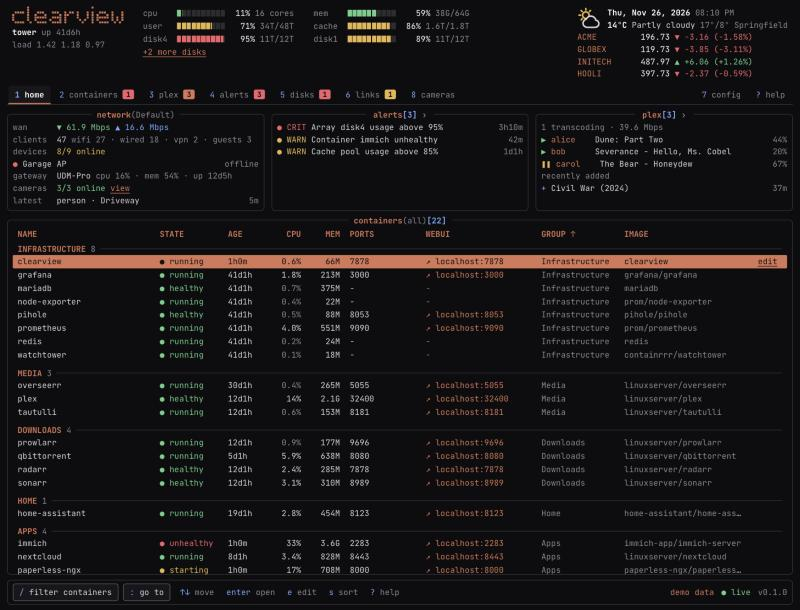
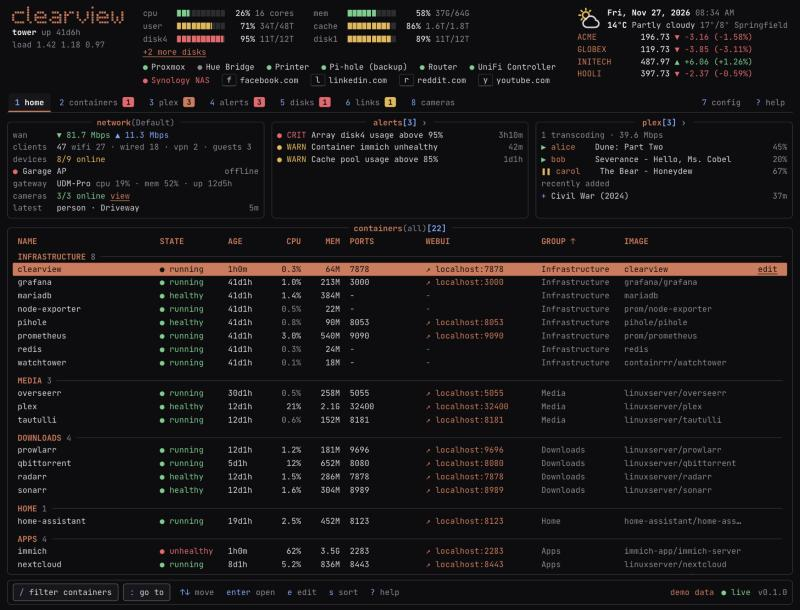
Show your links and shortcuts in the header
List the configured links, with their up or down dot, and the letter
shortcuts under the header meters, each opening in a new tab. The header
shows up to ten of each, then a button to the rest; on phones they are one
row to swipe. Update the README and screenshots.

diff --git a/web/src/components/Header.tsx b/web/src/components/Header.tsx
@@ -1,17 +1,22 @@
-import type { HostStats, Quote, Snapshot, WeatherData } from '@clearview/shared';
+import type { HostStats, LinkInfo, Quote, Snapshot, WeatherData } from '@clearview/shared';
 import type { ViewId } from '../lib/commands';
+import type { ShortcutEntry } from '../lib/configEdit';
 import { fmtAge, fmtBytes } from '../lib/format';
 import { headerDisks } from '../lib/panels';
 import { Bar } from './Bar';
 import { HeaderWidget } from './HeaderWidget';
 import { Logo } from './Logo';
+import { QuickLinks } from './QuickLinks';
 
 interface HeaderProps {
   host: HostStats | null;
   weather: Snapshot<WeatherData> | null;
   quotes: Snapshot<Quote[]> | null;
+  links: LinkInfo[];
+  shortcuts: ShortcutEntry[];
   onNavigate: (view: ViewId) => void;
   onSetUpWidget: () => void;
+  onEditShortcuts: () => void;
 }
 
 /** "name ▮▮▮░░ 42%  detail"; a button when there is somewhere to go from it */
@@ -35,7 +40,7 @@ function Meter({ name, pct, detail, onClick }: { name: string; pct: number | nul
   );
 }
 
-export function Header({ host, weather, quotes, onNavigate, onSetUpWidget }: HeaderProps) {
+export function Header({ host, weather, quotes, links, shortcuts, onNavigate, onSetUpWidget, onEditShortcuts }: HeaderProps) {
   const disks = headerDisks(host?.disks ?? []);
   return (
     <header className="hdr">
@@ -52,17 +57,21 @@ export function Header({ host, weather, quotes, onNavigate, onSetUpWidget }: Hea
         </div>
       </div>
 
-      <div className="meters">
-        <Meter name="cpu" pct={host?.cpuPct ?? null} detail={host && `${host.cpuCores} cores`} />
-        <Meter name="mem" pct={host?.mem.usedPct ?? null} detail={host && `${fmtBytes(host.mem.usedBytes)}/${fmtBytes(host.mem.totalBytes)}`} />
-        {disks.shown.map((d) => (
-          <Meter key={d.mount} name={d.name} pct={d.usedPct} detail={`${fmtBytes(d.usedBytes)}/${fmtBytes(d.totalBytes)}`} onClick={() => onNavigate('disks')} />
-        ))}
-        {disks.hidden > 0 && (
-          <button type="button" className="text-btn meters-more" onClick={() => onNavigate('disks')}>
-            +{disks.hidden} more disk{disks.hidden === 1 ? '' : 's'}
-          </button>
-        )}
+      <div className="hdr-mid">
+        <div className="meters">
+          <Meter name="cpu" pct={host?.cpuPct ?? null} detail={host && `${host.cpuCores} cores`} />
+          <Meter name="mem" pct={host?.mem.usedPct ?? null} detail={host && `${fmtBytes(host.mem.usedBytes)}/${fmtBytes(host.mem.totalBytes)}`} />
+          {disks.shown.map((d) => (
+            <Meter key={d.mount} name={d.name} pct={d.usedPct} detail={`${fmtBytes(d.usedBytes)}/${fmtBytes(d.totalBytes)}`} onClick={() => onNavigate('disks')} />
+          ))}
+          {disks.hidden > 0 && (
+            <button type="button" className="text-btn meters-more" onClick={() => onNavigate('disks')}>
+              +{disks.hidden} more disk{disks.hidden === 1 ? '' : 's'}
+            </button>
+          )}
+        </div>
+
+        <QuickLinks links={links} shortcuts={shortcuts} onNavigate={onNavigate} onEditShortcuts={onEditShortcuts} />
       </div>
 
       <HeaderWidget weather={weather} quotes={quotes} onConfigure={onSetUpWidget} />

diff --git a/web/src/components/QuickLinks.tsx b/web/src/components/QuickLinks.tsx
@@ -1,0 +1,61 @@
+import type { LinkInfo } from '@clearview/shared';
+import type { ViewId } from '../lib/commands';
+import type { ShortcutEntry } from '../lib/configEdit';
+import { siteName } from '../lib/format';
+import { GLYPH } from '../lib/glyphs';
+
+/** how many of each kind the header has room for */
+const MAX = 10;
+
+interface QuickLinksProps {
+  links: LinkInfo[];
+  shortcuts: ShortcutEntry[];
+  onNavigate: (view: ViewId) => void;
+  onEditShortcuts: () => void;
+}
+
+const status = (l: LinkInfo) => (l.up === null ? 'not checked' : l.up ? 'up' : 'down');
+
+/** The user's own links and letter shortcuts, one click away on every page. */
+export function QuickLinks({ links, shortcuts, onNavigate, onEditShortcuts }: QuickLinksProps) {
+  if (links.length === 0 && shortcuts.length === 0) return null;
+  return (
+    <nav className="quick" aria-label="your links">
+      <ul>
+        {links.slice(0, MAX).map((l) => (
+          <li key={l.url + l.name}>
+            <a href={l.url} target="_blank" rel="noopener noreferrer" title={`${l.url} (${status(l)})`}>
+              <span className={l.up === null ? 'c-dim' : l.up ? 'c-ok' : 'c-err'} aria-hidden>
+                {GLYPH.dot}
+              </span>
+              <span className={`quick-name${l.up === false ? ' c-err' : ''}`}>{l.name}</span>
+              <span className="sr-only">, {status(l)}</span>
+            </a>
+          </li>
+        ))}
+        {links.length > MAX && (
+          <li>
+            <button type="button" className="text-btn" onClick={() => onNavigate('links')}>
+              +{links.length - MAX} more links
+            </button>
+          </li>
+        )}
+        {shortcuts.slice(0, MAX).map((s) => (
+          <li key={`key-${s.key}`}>
+            <a href={s.url} target="_blank" rel="noopener noreferrer" title={`${s.url} (press ${s.key})`}>
+              <kbd className="cap">{s.key}</kbd>
+              <span className="quick-name">{siteName(s.url)}</span>
+            </a>
+          </li>
+        ))}
+        {shortcuts.length > MAX && (
+          <li>
+            <button type="button" className="text-btn" onClick={onEditShortcuts}>
+              +{shortcuts.length - MAX} more shortcuts
+            </button>
+          </li>
+        )}
+      </ul>
+    </nav>
+  );
+}

diff --git a/web/src/theme.css b/web/src/theme.css
@@ -259,6 +259,48 @@ button.meter:hover .meter-name {
   justify-self: start;
 }
 
+.hdr-mid {
+  display: flex;
+  flex-direction: column;
+  gap: 0.25em;
+  min-width: 0;
+}
+
+/* the user's own links, then letter shortcuts, in the room under the meters */
+.quick {
+  min-width: 0;
+}
+
+.quick ul {
+  display: flex;
+  flex-wrap: wrap;
+  gap: 0 2.5ch;
+  min-width: 0;
+  margin: 0;
+  padding: 0;
+  list-style: none;
+}
+
+.quick li {
+  display: flex;
+}
+
+.quick a {
+  /* keeps the hidden "up / down" text inside the swipe row on phones, or it widens the page */
+  position: relative;
+  display: inline-flex;
+  align-items: center;
+  gap: 0.7ch;
+  min-height: 1.7em;
+  border-radius: 2px;
+  white-space: nowrap;
+}
+
+.quick a:hover .quick-name {
+  text-decoration: underline;
+  text-underline-offset: 3px;
+}
+
 /* date, weather and stock ticker */
 .hdr-widget {
   display: flex;
@@ -1590,6 +1632,10 @@ legend {
   .meter .bar { --cells: 6 !important; }
   .meter-detail { display: none; }
 
+  /* one row to swipe through, so the links do not push the page down */
+  .quick { overflow-x: auto; padding: 2px 0; scrollbar-width: none; }
+  .quick ul { flex-wrap: nowrap; width: max-content; }
+
   .nav { position: fixed; right: 0; bottom: 0; left: 0; z-index: 40; padding: 0 0 env(safe-area-inset-bottom); border-top: 1px solid var(--border); border-bottom: 0; background: var(--bg); }
   /* the fade says there is more of the menu to the side */
   .nav ul { padding: 2px 4ch 0 1ch; -webkit-mask-image: linear-gradient(90deg, #000 calc(100% - 4ch), transparent); mask-image: linear-gradient(90deg, #000 calc(100% - 4ch), transparent); }
@@ -1654,6 +1700,8 @@ legend {
   .meter { min-height: 28px; }
   .meters-more,
   .line-link { min-height: 32px; align-items: center; }
+  .quick a,
+  .quick .text-btn { min-height: 32px; }
   .home-button { padding: 4px 0; }
   .nav kbd { display: none; }
   .th-sort { min-height: 32px; }

diff --git a/web/src/App.tsx b/web/src/App.tsx
@@ -10,7 +10,7 @@ import { useAfter, useNow } from './hooks/useBucket';
 import { useStream } from './hooks/useStream';
 import { saveConfig, saveYaml, type SaveFn } from './lib/api';
 import { VIEWS, viewFromHash, type ViewId } from './lib/commands';
-import { shortcutFor } from './lib/configEdit';
+import { shortcutEntries, shortcutFor, type ShortcutEntry } from './lib/configEdit';
 import type { Editor } from './lib/editor';
 import { resolveUrl } from './lib/format';
 import { GLYPH } from './lib/glyphs';
@@ -27,6 +27,8 @@ import { LinksView } from './views/Links';
 import { PlexView } from './views/Plex';
 
 const NO_GROUPS: string[] = [];
+const NO_LINKS: LinkInfo[] = [];
+const NO_SHORTCUTS: ShortcutEntry[] = [];
 
 /** Which list the selection cursor moves over in each view. */
 type ListKind = 'containers' | 'alerts' | 'streams' | 'disks' | 'links' | 'cameras';
@@ -513,7 +515,16 @@ export default function App() {
       >
         skip to content
       </a>
-      <Header host={s.host?.data ?? null} weather={s.weather} quotes={s.quotes} onNavigate={go} onSetUpWidget={() => openConfig('general')} />
+      <Header
+        host={s.host?.data ?? null}
+        weather={s.weather}
+        quotes={s.quotes}
+        links={s.links?.data ?? NO_LINKS}
+        shortcuts={config ? shortcutEntries(config.config) : NO_SHORTCUTS}
+        onNavigate={go}
+        onSetUpWidget={() => openConfig('general')}
+        onEditShortcuts={() => openConfig('shortcuts')}
+      />
       <Nav view={view} badges={badges} onNavigate={go} />
       {offline && (
         <div className="banner" role="alert">

diff --git a/web/src/lib/format.test.ts b/web/src/lib/format.test.ts
@@ -13,6 +13,7 @@ import {
   resolveUrl,
   shortImage,
   shortUrl,
+  siteName,
   weatherKind,
 } from './format';
 
@@ -127,5 +128,13 @@ describe('shortUrl and shortImage', () => {
     expect(shortImage('grafana/grafana')).toBe('grafana/grafana');
     expect(shortImage('redis:7-alpine')).toBe('redis');
     expect(shortImage('localhost:5000/app:1')).toBe('app');
+  });
+});
+
+describe('siteName', () => {
+  it('drops the scheme, www and path', () => {
+    expect(siteName('https://www.youtube.com/feed')).toBe('youtube.com');
+    expect(siteName('http://192.168.1.5:8080/x')).toBe('192.168.1.5:8080');
+    expect(siteName('not a url')).toBe('not a url');
   });
 });

diff --git a/web/src/lib/format.ts b/web/src/lib/format.ts
@@ -109,6 +109,11 @@ export function resolveUrl(url: string | null, hostIp: string | null, fallbackHo
   return url.replace(/\[IP\]/gi, safe);
 }
 
+/** A short name for a website: "https://www.youtube.com/feed" -> "youtube.com" */
+export function siteName(url: string): string {
+  return shortUrl(url).replace(/^www\./, '');
+}
+
 /** "http://192.168.1.10:8989/path" -> "192.168.1.10:8989" */
 export function shortUrl(url: string | null): string {
   if (!url) return '-';

diff --git a/README.md b/README.md
@@ -10,7 +10,7 @@
 </p>
 
 <p align="center">
-  <img src="docs/screenshot-demo.png" alt="The clearview dashboard with demo data: the server name beside CPU, memory and disk meters, the date, weather and stock prices; a menu of views with problem counts; network, alerts and Plex boxes; and containers grouped by category with live CPU and memory" width="800">
+  <img src="docs/screenshot-demo.png" alt="The clearview dashboard with demo data: the server name beside CPU, memory and disk meters, with links and letter shortcuts under them, the date, weather and stock prices; a menu of views with problem counts; network, alerts and Plex boxes; and containers grouped by category with live CPU and memory" width="800">
   <br>
   <sub>Demo data. Try it yourself with <code>npm run dev:demo</code>.</sub>
 </p>
@@ -23,7 +23,7 @@
 - **Torrents**: Deluge speeds and active downloads, shown while no alerts are firing
 - **Alerts**: firing alerts from Grafana
 - **Plex**: live streams, transcodes, bandwidth, recently added media, libraries, history and top stats (through Tautulli)
-- **Links**: other devices on your network, with an up/down dot
+- **Links**: other devices on your network, with an up/down dot, in the header of every page along with your letter shortcuts
 - **Edit settings in the UI**: add links, make categories, rename or hide containers. No config file to touch
 - **Themes**: Dracula, Nord, Gruvbox, Tokyo Night, Catppuccin, One Dark, Monokai, Solarized and more, plus your own background and accent colours, previewed live
 - **Weather and stocks**: the date, local weather and a small stock ticker in the header
@@ -85,16 +85,17 @@ The menu under the header lists every view with its number key. A count appears 
 
 The browser tab's title also starts with the number of firing alerts, for example `(3) tower · clearview`.
 
+- **Your links:** the links and letter shortcuts you add are listed under the meters on every page. Click one to open it in a new tab. A link's dot is green when it is up, red when it is down and grey when it is not checked. The header shows the first ten of each, with a button to see the rest; on a phone, swipe the row.
 - **Mouse and touch:** click a container to open its WebUI, or **edit** on its row to change how it appears. Click the name, state, age, CPU or memory heading to sort the containers by it, and again to go back to categories. A box title with `›` on the home page opens that view.
 - **Keyboard:** `:` lists the views as you type (arrows choose, tab completes) and `/` filters the list you are on. Both also have buttons in the bottom bar. See [Keys](#keys).
 - **Lost connection:** if the page loses the server, a banner says what time the figures are from, and it reconnects on its own.
 
 ### On a phone
 
-On a narrow screen the menu moves to the bottom, the boxes stack, and the containers table keeps the name, state, WebUI link and edit button.
+On a narrow screen the menu moves to the bottom, your links become one row to swipe, the boxes stack, and the containers table keeps the name, state, WebUI link and edit button.
 
 <p align="center">
-  <img src="docs/screenshot-phone.png" alt="clearview on a phone with demo data: the wordmark, two columns of CPU, memory and disk meters, the network, alerts and Plex boxes stacked, and the menu along the bottom" width="300">
+  <img src="docs/screenshot-phone.png" alt="clearview on a phone with demo data: the wordmark, two columns of CPU, memory and disk meters, a row of links, the network, alerts and Plex boxes stacked, and the menu along the bottom" width="300">
 </p>
 
 ## Changing settings in the UI
@@ -283,7 +284,7 @@ A source with no config shows setup instructions where it would appear. A failin
 
 ### Your own shortcuts
 
-Give a letter a web address and pressing it on the dashboard opens that site in a new tab. Add them in the config view (`:config`, shortcuts), where `youtube.com` is enough, or in `clearview.yaml`, where the address needs `http://` or `https://`:
+Give a letter a web address and pressing it on the dashboard opens that site in a new tab. Shortcuts are also listed in the header, where you can click them. Add them in the config view (`:config`, shortcuts), where `youtube.com` is enough, or in `clearview.yaml`, where the address needs `http://` or `https://`:
 
 ```yaml
 shortcuts:
